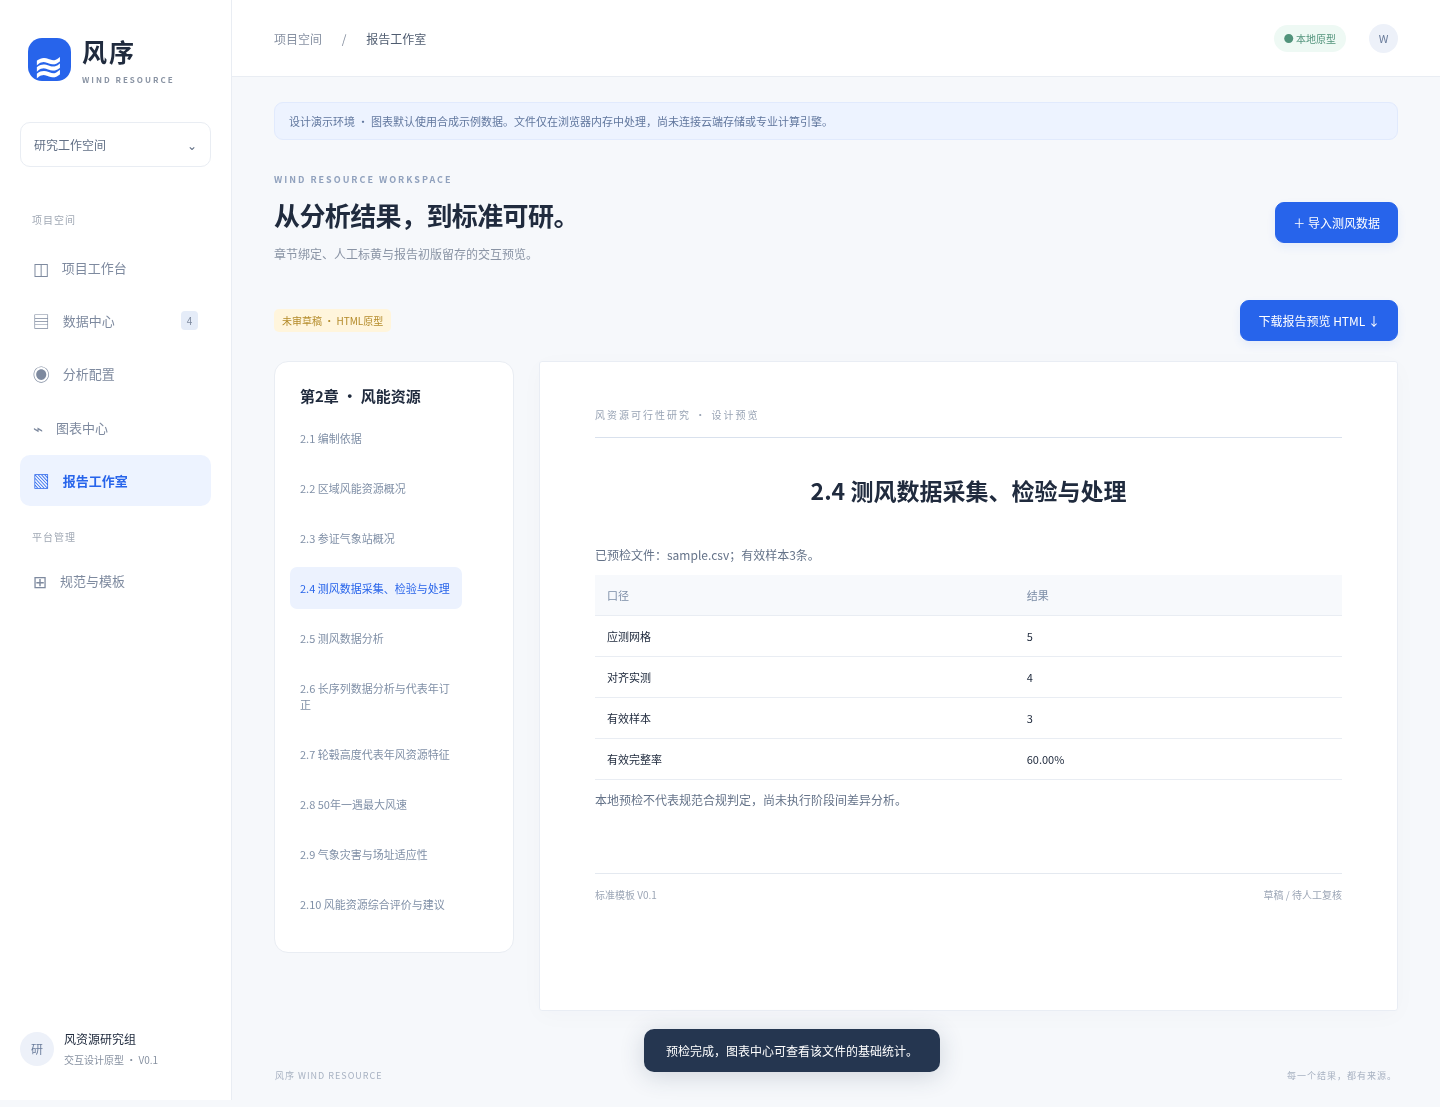
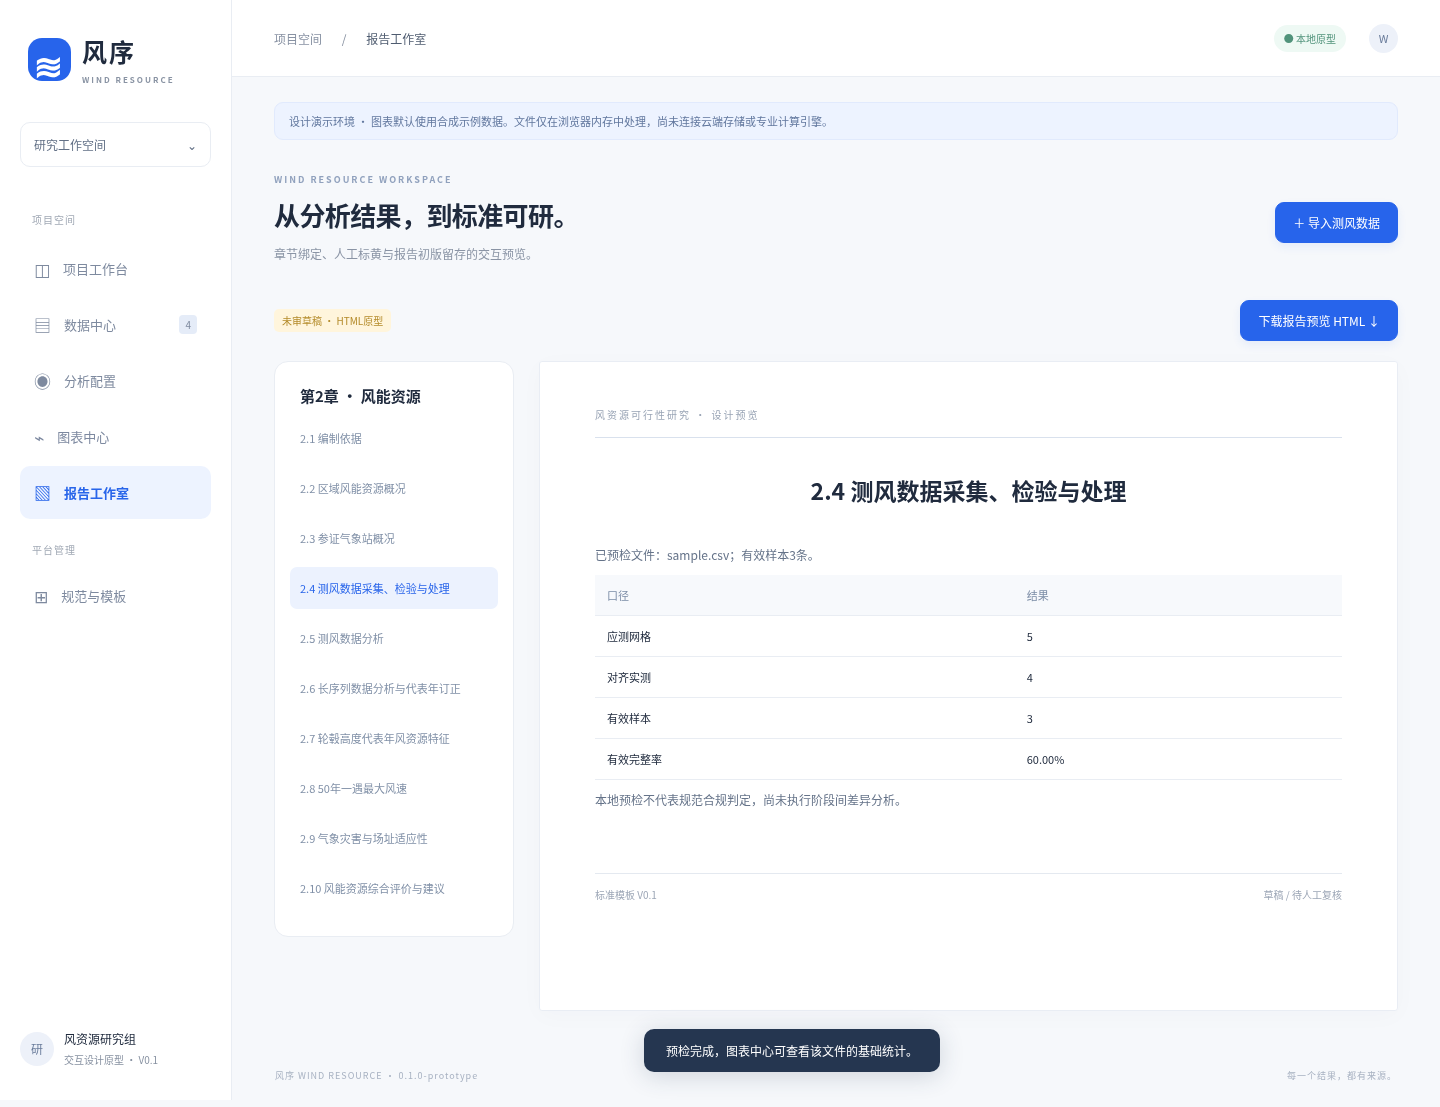
docs: record remote version verification and updated GUI screenshots

diff --git a/docs/验证记录.md b/docs/验证记录.md
@@ -15,3 +15,10 @@
 界面截图：GUI-工作台.png、GUI-报告工作室.png、GUI-移动端.png。全部图表为示例或原型本地预检；规范计算、相关回归、正式DOCX可研生成、服务端存储/鉴权/审计未实现，不列为通过项。
 
 运行验收先按README启动静态服务，再执行测试。Playwright和Chromium为当前云环境已有工具，GUI本身无需第三方依赖。
+
+## 云端Git与协作发布配置
+
+- 2026-11-05：main、design/v0.1、gh-pages和v0.1.0-prototype已推送并通过git ls-remote核对。
+- GUI版本页脚变更后重跑浏览器功能检查，通过并更新截图。
+- 单文件网页可由tools/export_standalone.py重建。云端Chromium的file协议被管理员禁用，因此采用HTML内容加载验证，不宣称在该浏览器中直接打开file网址成功。
+- GitHub API的CONNECT请求被当前网络代理403拒绝，尚未读取Pages状态或验证在线网址。联网域名已存入环境配置草稿，未代表应用到当前实例。

diff --git a/CHANGELOG.md b/CHANGELOG.md
@@ -7,3 +7,10 @@
 - 明确示例数据、生产能力与尚未实现边界。
 - 建立main、方案快照、版本标签及gh-pages发布约定。
 - 增加GUI发布同步工作流，页面版本标识及协作指南。
+
+## 协作配置补充 · 2026-11-05
+
+- 已核对远端保存的main、方案分支、发布分支和基线标签。
+- 发布脚本使用Git原生命令，无需额外安装subtree。
+- 增加单文件HTML导出工具与后续协作指引，更新版本页脚截图。
+- Pages启用及在线部署仍待确认，API访问受当前网络策略限制。
